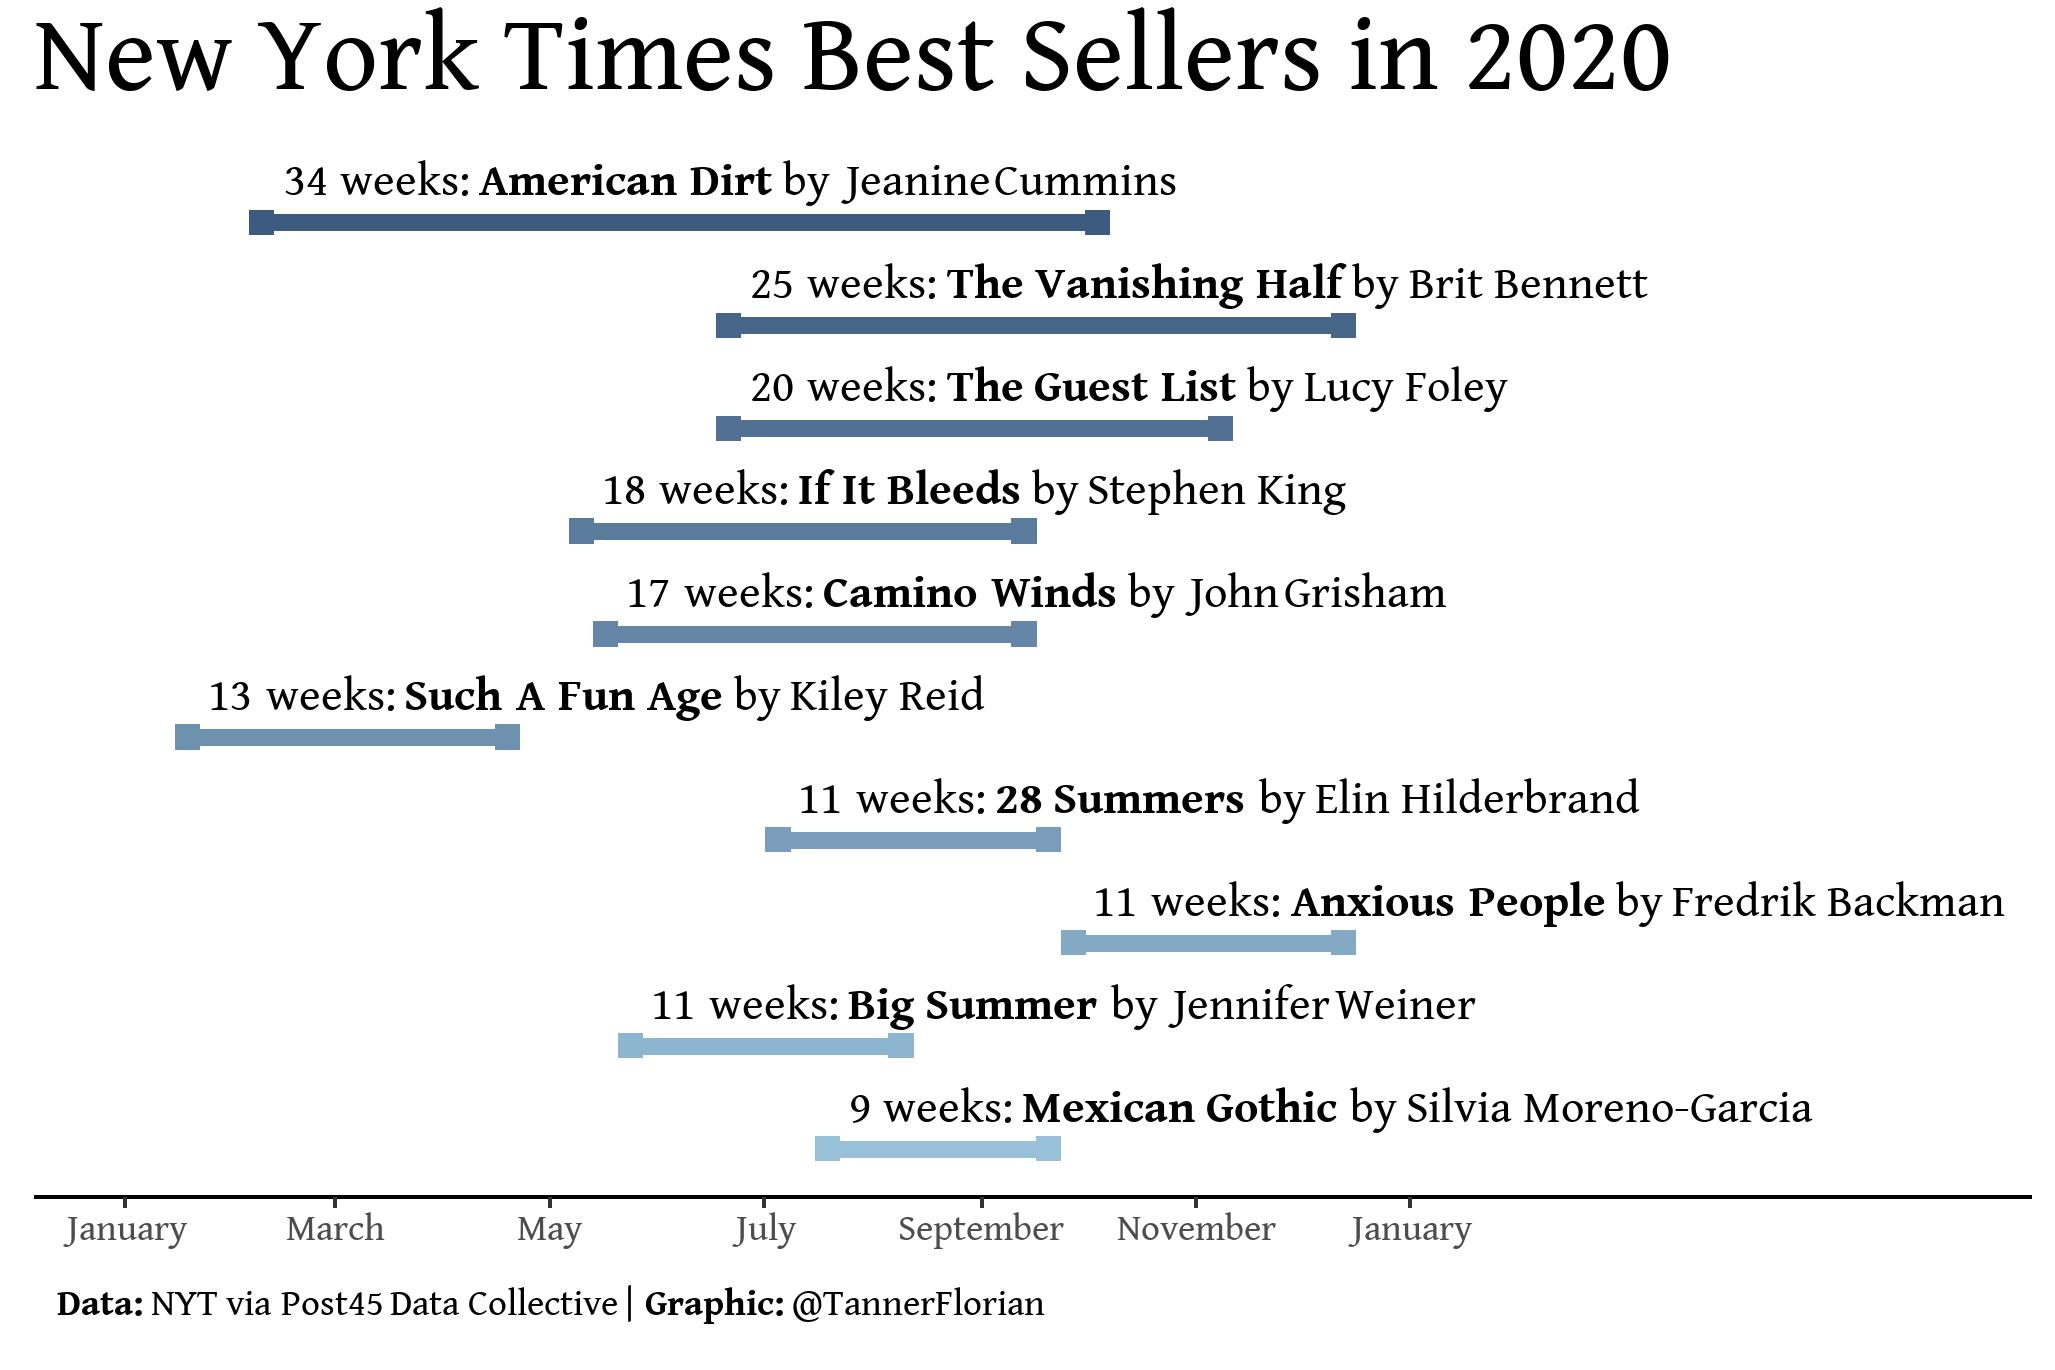
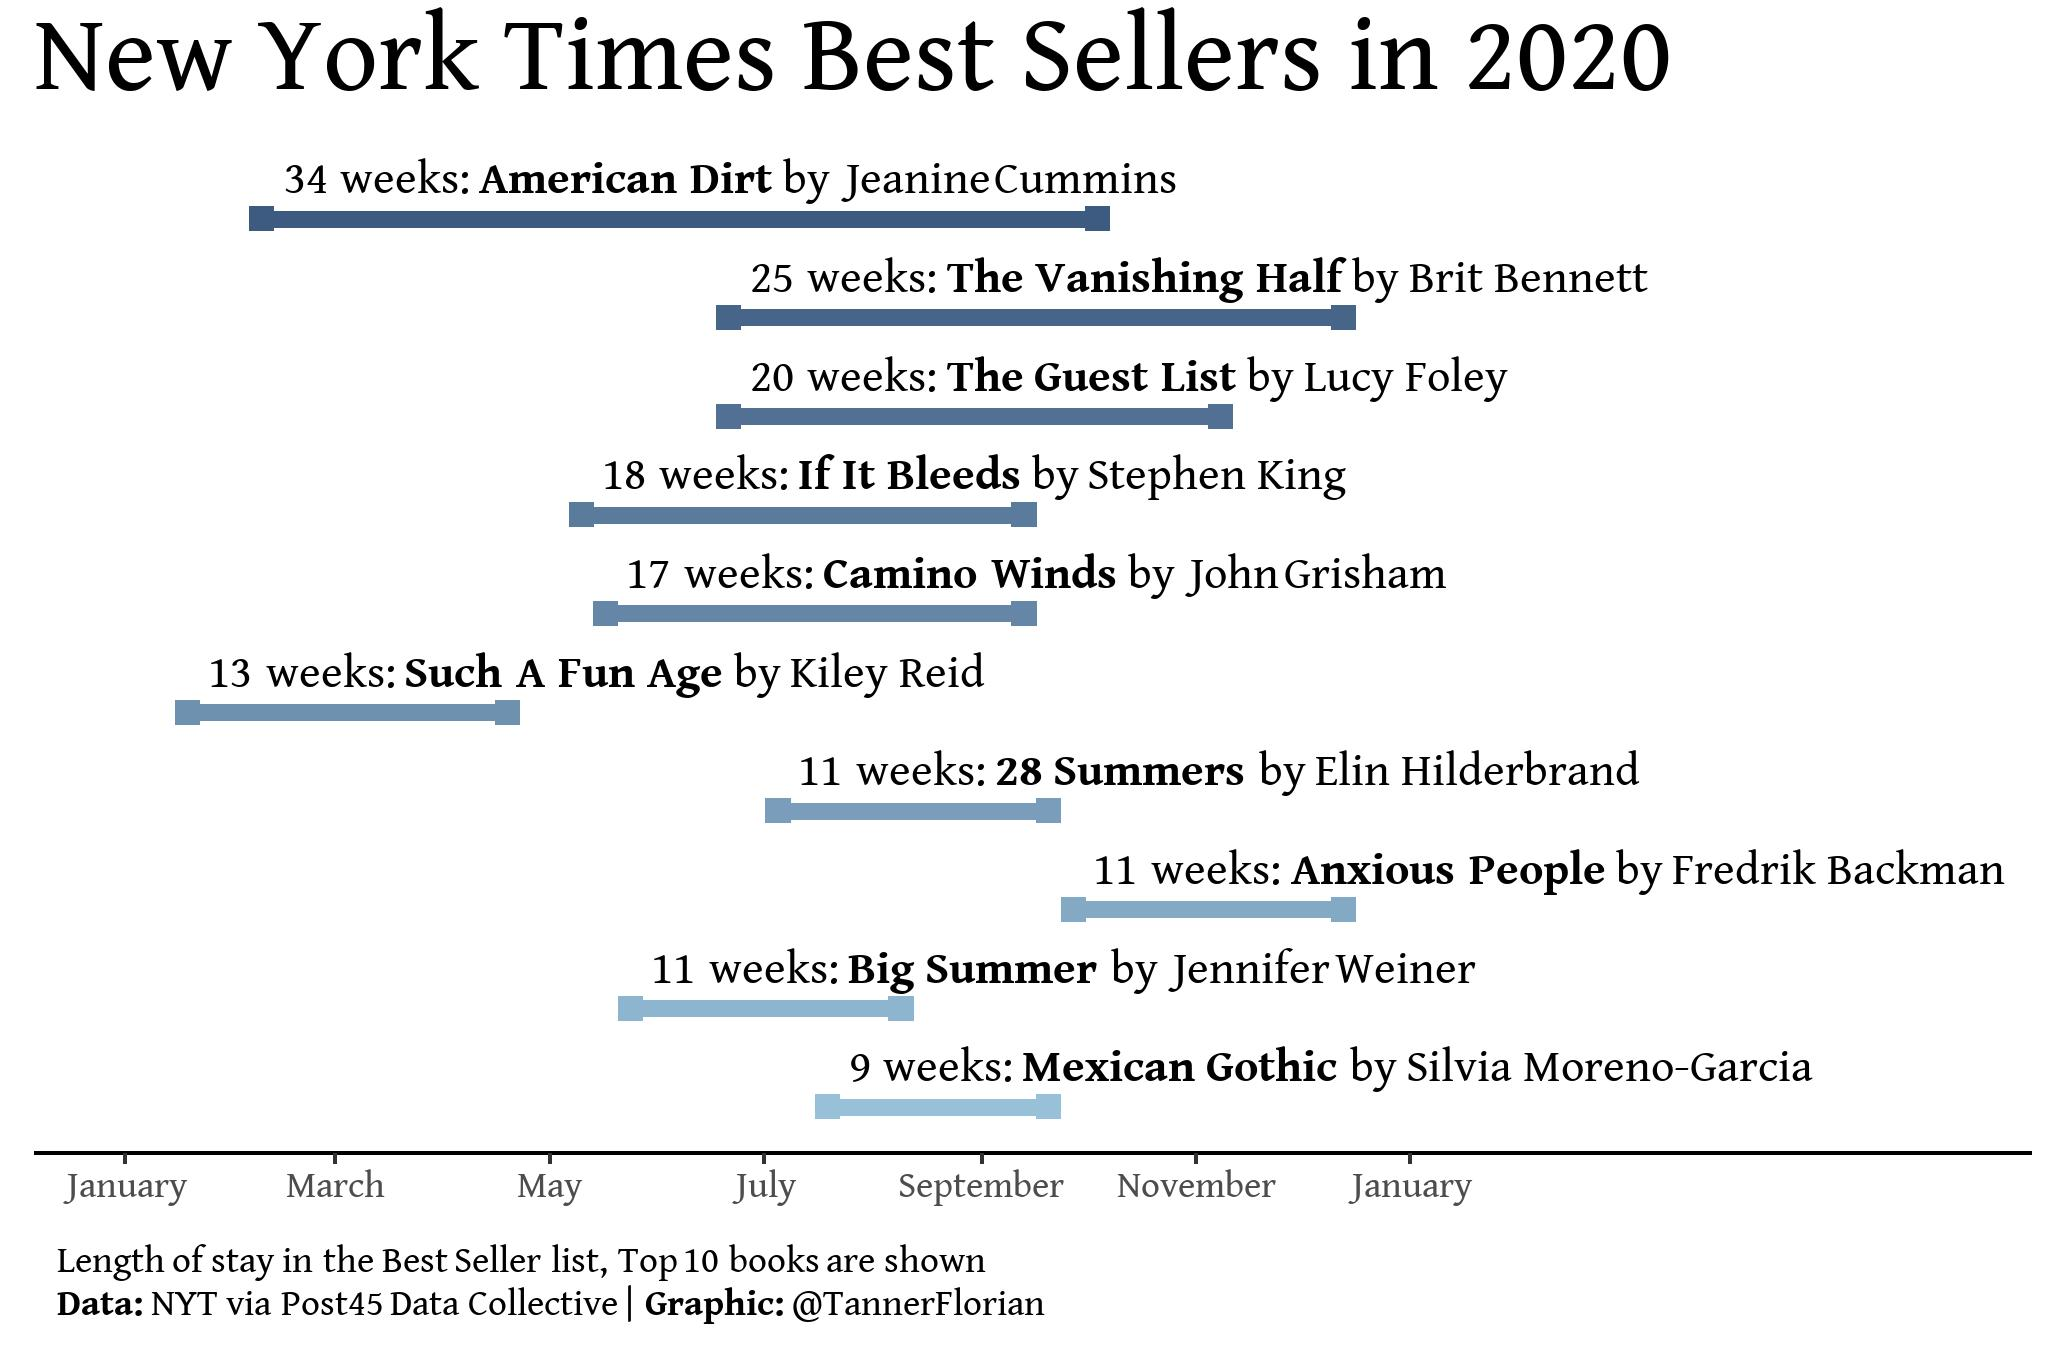
Update caption

Changed region(s): [[0.2803, 0.5518, 0.9655, 0.9504], [0.0623, 0.1226, 0.8097, 0.5518], [0.0311, 0.8277, 0.3114, 0.9504]]

diff --git a/2022/2022-05-10 NYTimes best sellers/2022-05-10-NYTimes-best-sellers.md b/2022/2022-05-10 NYTimes best sellers/2022-05-10-NYTimes-best-sellers.md
@@ -1,7 +1,7 @@
 2022-05-10 NYTimes best sellers
 ================
 Florian Tanner
-2022-05-10 23:02:14
+2022-05-10 23:33:35
 
 ``` r
 rm(list = ls())
@@ -102,7 +102,7 @@ p <- nyt_titles |>
                breaks = date_breaks_monthly)  +
   scale_color_gradient(low = "#98C1D9", high = "#3D5A80") +
   labs(title = "New York Times Best Sellers in 2020", 
-       caption = "**Data:** NYT via Post45 Data Collective | **Graphic:** @TannerFlorian") +
+       caption = "Length of stay in the Best Seller list, Top 10 books are shown <br>**Data:** NYT via Post45 Data Collective | **Graphic:** @TannerFlorian") +
   theme_bestsellers
   
 p
